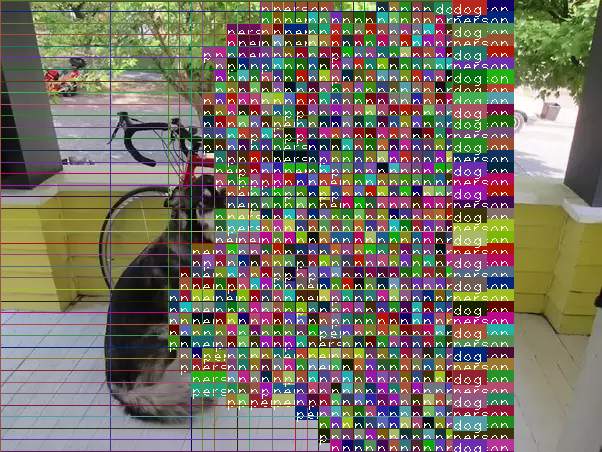
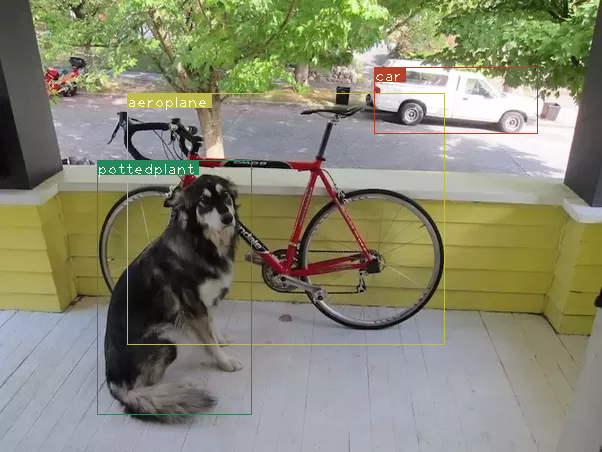
corrected

diff --git a/GUI_Element_Detection_Recognition/detector.py b/GUI_Element_Detection_Recognition/detector.py
@@ -8,13 +8,13 @@ import pickle as pkl
 import cv2
 import os.path as osp
 import os
-import time
 import random
+import time
 
 
-dataset = "dog-cycle-car.png"
-batch_size = 1
-res = "416"
+dataset = "dataset"
+batch_size = 2
+res = 416
 conf_thresh = 0.5
 nms_thresh = 0.4
 cfg_file = "cfg/yolov3.cfg"
@@ -29,7 +29,7 @@ model = DarkNet(cfg_file)
 model.load_weights(weights_file)
 print("Network successfully loaded")
 
-model.net_data["width"] = res
+model.net_data["width"] = str(res)
 input_size = int(model.net_data["width"])
 assert input_size % 32 == 0
 assert input_size > 32
@@ -41,18 +41,22 @@ model.eval()
 
 try:
     # image_list = [osp.join(osp.realpath("."), dataset, image) for image in os.listdir(dataset)]
-    image_list = [dataset]
+    image_list = [osp.join(dataset, image) for image in os.listdir(dataset)]
+    # image_list = [dataset]
 except NotADirectoryError:
     image_list = [osp.join(osp.realpath("."), dataset)]
 except FileNotFoundError:
     print("No file or directory found with the name {}".format(dataset))
     exit()
 
+if not os.path.exists("detections"):
+    os.makedirs("detections")
+
 loaded_images = [cv2.imread(image) for image in image_list]
 
 dataset_images = list(map(image_preprocessing, loaded_images, [input_size for image in range(len(image_list))]))
 
-dataset_images_dim = [(image.shape[0], image.shape[1]) for image in loaded_images]
+dataset_images_dim = [(image.shape[1], image.shape[0]) for image in loaded_images]
 dataset_images_dim = torch.FloatTensor(dataset_images_dim).repeat(1, 2)
 
 if CUDA:
@@ -68,19 +72,20 @@ if batch_size != 1:
 
 collector = 0
 for i, batch in enumerate(dataset_images):
-    #load the image
+
     if CUDA:
         batch = batch.cuda()
 
-    prediction = model(batch, CUDA)
+    with torch.no_grad():
+        prediction = model(batch, CUDA)
 
     prediction = true_detections(prediction,  classes, conf_thresh, nms_thresh)
 
-    prediction[:, 0] += i*batch_size    #transform the atribute from index in batch to index in imlist
+    prediction[:, 0] += i*batch_size
 
-    if not write:                      #If we have't initialised output
+    if not collector:
         output = prediction
-        write = 1
+        collector = 1
     else:
         output = torch.cat((output, prediction))
 
@@ -107,14 +112,11 @@ for i in range(output.shape[0]):
     output[i, [1, 3]] = torch.clamp(output[i, [1, 3]], 0.0, dataset_images_dim[i, 0])
     output[i, [2, 4]] = torch.clamp(output[i, [2, 4]], 0.0, dataset_images_dim[i, 1])
 
-output_recast = time.time()
-class_load = time.time()
+
 colors = pkl.load(open("pallete", "rb"))
 
-draw = time.time()
 
-
-def write(x, results):
+def draw_bb(x, results):
     c1 = tuple(x[1:3].int())
     c2 = tuple(x[3:5].int())
     img = results[int(x[0])]
@@ -129,13 +131,10 @@ def write(x, results):
     return img
 
 
-list(map(lambda x: write(x, loaded_images), output))
+list(map(lambda x: draw_bb(x, loaded_images), output))
 
-det_names = pd.Series(image_list).apply(lambda x: "{}/det_{}".format("detections", x.split("/")[-1]))
+det_names = pd.Series(image_list).apply(lambda x: "{}/det_{}".format("detections", x.split("\\")[-1]))
 
 list(map(cv2.imwrite, det_names, loaded_images))
-
-end = time.time()
-
 
 torch.cuda.empty_cache()

diff --git a/GUI_Element_Detection_Recognition/darknet.py b/GUI_Element_Detection_Recognition/darknet.py
@@ -1,6 +1,5 @@
 from __future__ import division
-from torch.autograd import variable
-import torch.nn.functional as f
+
 from utils import *
 import torch
 import torch.nn as nn
@@ -61,9 +60,9 @@ def create_nn_modules(modules):
                 leaky = nn.LeakyReLU(0.1, inplace=True)
                 sub_module.add_module("Leaky_Activation{}".format(index), leaky)
 
-            if activation == "linear":
-                linear = nn.Linear(input_filters, filters, bias=bias)
-                sub_module.add_module("Linear_Activation{}".format(index), linear)
+            # if activation == "linear":
+            #     linear = nn.Linear(input_filters, filters, bias=bias)
+            #     sub_module.add_module("Linear_Activation{}".format(index), linear)
 
         elif module["type"] == "shortcut":  # Refers to a skip connection
             shortcut = EmptyLayer()
@@ -71,8 +70,9 @@ def create_nn_modules(modules):
 
         elif module["type"] == "upsample":
             stride = int(module["stride"])
-            upsample = nn.UpsamplingBilinear2d(scale_factor=2)  # Bilinear Upsampling
+            # upsample = nn.UpsamplingBilinear2d(scale_factor=2)  # Bilinear Upsampling
             # upsample = nn.ConvTranspose2d()
+            upsample = nn.UpsamplingNearest2d(scale_factor=2)
             sub_module.add_module("Upsampling{}".format(index), upsample)
 
         elif module["type"] == "route":
@@ -109,9 +109,9 @@ def create_nn_modules(modules):
             yolo = DetectionLayer(anchors)
             sub_module.add_module("YOLO{}".format(index), yolo)
 
-        output_filters.append(filters)
-        input_filters = filters
         net_modules.append(sub_module)
+        input_filters = filters
+        output_filters.append(filters)
 
     return net_data, net_modules
 
@@ -133,7 +133,7 @@ class DarkNet(nn.Module):
             module_type = module["type"]
 
             if module_type == "convolutional" or module_type == "upsample":
-                input_ = self.net_modules[index][0](input_)
+                input_ = self.net_modules[index](input_)
 
             elif module_type == "shortcut":
                 from_ = int(module["from"])
@@ -171,7 +171,7 @@ class DarkNet(nn.Module):
                 anchors = self.net_modules[index][0].anchors
                 classes = int(module["classes"])
 
-                input_ = predict_transform(input_, input_dimensions, anchors, classes)
+                input_ = predict_transform(input_, input_dimensions, anchors, classes, CUDA)
                 if not collector:
                     detections = input_
                     collector = 1

diff --git a/GUI_Element_Detection_Recognition/utils.py b/GUI_Element_Detection_Recognition/utils.py
@@ -49,7 +49,7 @@ def resize_image(image, input_size):
 
 
 def image_preprocessing(image, input_size):
-    image = resize_image(image, input_size)
+    image = (resize_image(image, input_size))
     image = image[:, :, ::-1].transpose((2, 0, 1)).copy()
     image = torch.from_numpy(image).float().div(255.0).unsqueeze(0)
     image = image.cuda()
@@ -79,7 +79,7 @@ def predict_transform(prediction, input_size, anchors, classes, CUDA=True):
     # prediction[:, :, 1] = torch.sigmoid(prediction[:, :, 1])
 
     grid = np.arange(grid_size)
-    y, x = np.meshgrid(grid, grid)
+    x, y = np.meshgrid(grid, grid)
 
     x_offset = torch.FloatTensor(x).view(-1, 1)
     y_offset = torch.FloatTensor(y).view(-1, 1)
@@ -144,11 +144,11 @@ def true_detections(prediction, classes, obj_thresh, nms_thresh):
     prediction *= obj_mask
 
     # Transform bbox attributes to top-left and bottom-right corners to compute IoU more easily
-    box_corners = prediction.new(prediction.size())
+    box_corners = prediction.new(prediction.shape)
     box_corners[:, :, 0] = prediction[:, :, 0] - prediction[:, :, 2] / 2
     box_corners[:, :, 1] = prediction[:, :, 1] - prediction[:, :, 3] / 2
-    box_corners[:, :, 0] = prediction[:, :, 0] + prediction[:, :, 2] / 2
-    box_corners[:, :, 1] = prediction[:, :, 1] + prediction[:, :, 3] / 2
+    box_corners[:, :, 2] = prediction[:, :, 0] + prediction[:, :, 2] / 2
+    box_corners[:, :, 3] = prediction[:, :, 1] + prediction[:, :, 3] / 2
     prediction[:, :, :4] = box_corners[:, :, :4]
 
     batch_size = prediction.size(0)
